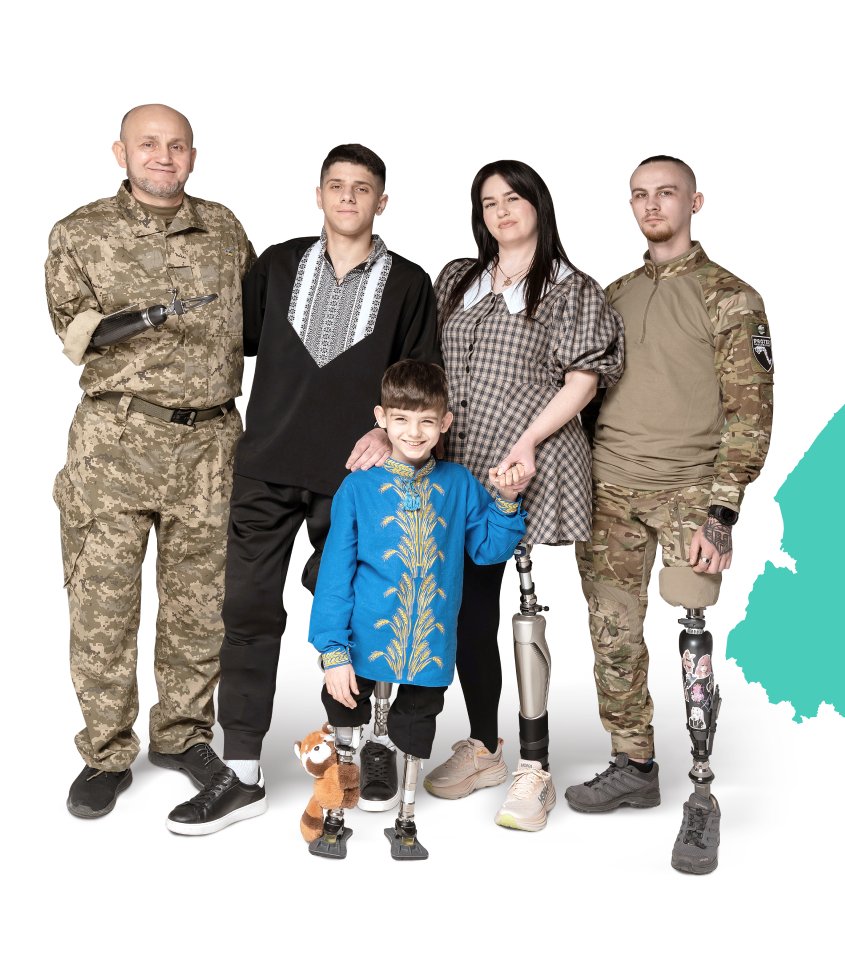
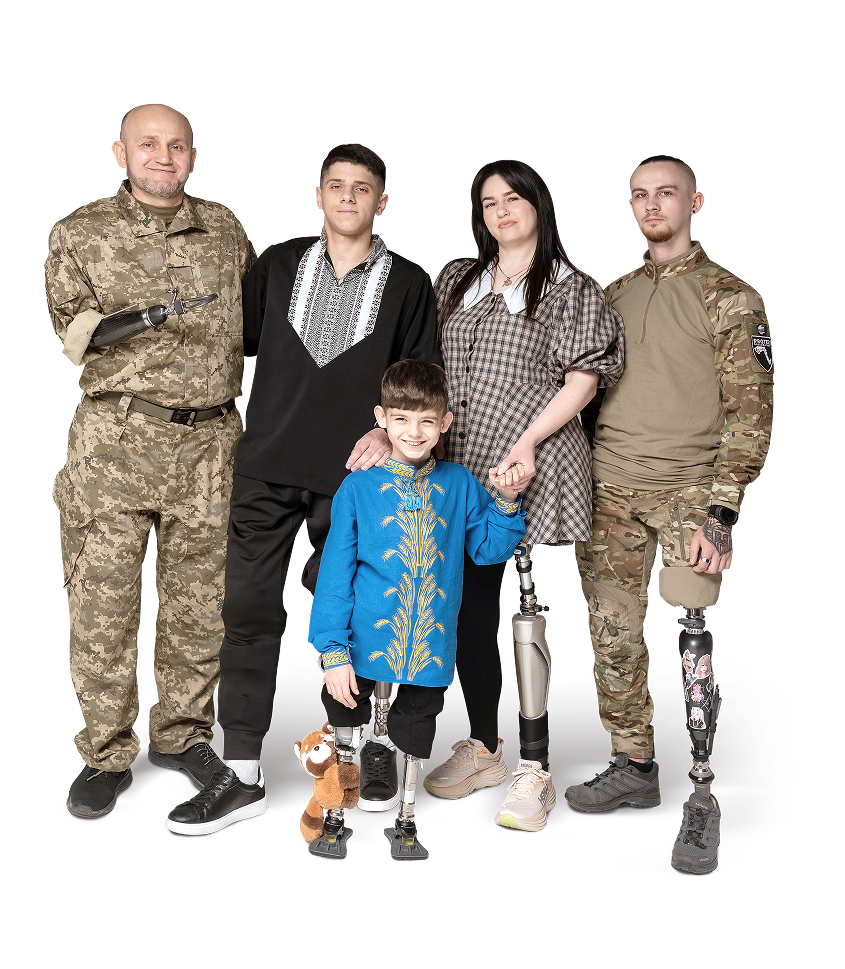
Refine glass backgrounds with optional edge fades and refresh InNeed photo

diff --git a/src/components/GlassBackground/style.module.scss b/src/components/GlassBackground/style.module.scss
@@ -1,0 +1,55 @@
+.surface {
+  position: relative;
+  isolation: isolate;
+}
+
+.background {
+  --glass-fade-height: 160px;
+  --glass-fade-top: 0px;
+  --glass-fade-bottom: 0px;
+
+  position: absolute;
+  inset: 0;
+  z-index: -1;
+  pointer-events: none;
+  background-color: rgba(255, 255, 255, 0.85);
+  background-image:
+    url('/textures/frosted-glass-grain.svg'),
+    linear-gradient(
+      135deg,
+      rgba(255, 255, 255, 0.35),
+      rgba(73, 204, 186, 0.16) 35%,
+      rgba(15, 158, 139, 0.1) 65%,
+      rgba(255, 255, 255, 0.25)
+    );
+  -webkit-backdrop-filter: blur(24px);
+  backdrop-filter: blur(24px);
+  -webkit-mask-image: linear-gradient(
+    to bottom,
+    transparent,
+    black var(--glass-fade-top),
+    black calc(100% - var(--glass-fade-bottom)),
+    transparent
+  );
+  mask-image: linear-gradient(
+    to bottom,
+    transparent,
+    black var(--glass-fade-top),
+    black calc(100% - var(--glass-fade-bottom)),
+    transparent
+  );
+}
+
+.fadeTop {
+  --glass-fade-top: var(--glass-fade-height);
+}
+
+.fadeBottom {
+  --glass-fade-bottom: var(--glass-fade-height);
+}
+
+@media (max-width: 800px) {
+  .background {
+    --glass-fade-height: 80px;
+  }
+}

diff --git a/src/sections/home/SampleProsthesesCosts/SampleProsthesesCosts.tsx b/src/sections/home/SampleProsthesesCosts/SampleProsthesesCosts.tsx
@@ -3,6 +3,8 @@
 import { useLocale, useTranslations } from 'next-intl'
 
 import Section from '@/components/Section'
+import GlassBackground from '@/components/GlassBackground'
+import glassStyle from '@/components/GlassBackground/style.module.scss'
 import SectionTitle from '@/components/SectionTitle'
 import AnimatedGlowBackground from '@/components/AnimatedGlowBackground'
 
@@ -102,8 +104,13 @@ const SampleProsthesesCosts = () => {
   }))
 
   return (
-    <Section id={ProtezIDs.SampleProsthesesCosts} className={style.section}>
-      <AnimatedGlowBackground />
+    <Section
+      id={ProtezIDs.SampleProsthesesCosts}
+      className={`${style.section} ${glassStyle.surface}`}
+    >
+      <GlassBackground fadeTop fadeBottom>
+        <AnimatedGlowBackground />
+      </GlassBackground>
       <div className={style.left}>
         <SectionTitle className={`${style.title} ${locale === 'uk' ? style.ukrainianTitle : ''}`}>
           {titleLines.map(line => (

diff --git a/src/sections/home/OurPatients/OurPatients.tsx b/src/sections/home/OurPatients/OurPatients.tsx
@@ -12,6 +12,8 @@ import { TextAppearanceWrapper } from '@/components/TextAppearanceWrapper'
 
 import { icons } from './icons'
 import Section from '@/components/Section'
+import GlassBackground from '@/components/GlassBackground'
+import glassStyle from '@/components/GlassBackground/style.module.scss'
 import SectionTitle from '@/components/SectionTitle'
 import { ProtezIDs } from '@/consts'
 import ProtezImage from '@/components/ProtezImage'
@@ -69,7 +71,8 @@ const OurPatients = () => {
   const patientsArray: string[] = [...ourPatientsSection.patients, ...ourPatientsSection.patients]
 
   return (
-    <Section id={ProtezIDs.OurPatients} className={style.section}>
+    <Section id={ProtezIDs.OurPatients} className={`${style.section} ${glassStyle.surface}`}>
+      <GlassBackground fadeTop fadeBottom />
       <TextAppearanceWrapper className={style.heading}>
         <SectionTitle className={style.title}>
           <span

diff --git a/src/sections/home/InNeed/InNeed.tsx b/src/sections/home/InNeed/InNeed.tsx
@@ -8,6 +8,8 @@ import { playfairDisplayItalic } from '../../../../app/fonts'
 import style from './style.module.scss'
 import { icons } from './icons'
 import Section from '@/components/Section'
+import GlassBackground from '@/components/GlassBackground'
+import glassStyle from '@/components/GlassBackground/style.module.scss'
 
 import { ProtezIDs } from '@/consts'
 
@@ -19,7 +21,8 @@ const InNeed = forwardRef(function (_, ref: ForwardedRef<HTMLDivElement>) {
   const t = useTranslations('home.inNeed')
 
   return (
-    <Section id={ProtezIDs.InNeed} className={style.section} ref={ref}>
+    <Section id={ProtezIDs.InNeed} className={`${style.section} ${glassStyle.surface}`} ref={ref}>
+      <GlassBackground fadeTop />
       {icons.ukrainanMap(style.map)}
       <div className={style.left}>
         <ProtezImage

diff --git a/src/sections/home/_root/style.module.scss b/src/sections/home/_root/style.module.scss
@@ -2,25 +2,6 @@
   // background-color: var(--dark-blue);
   --home-heading-color: var(--black);
   color: var(--black);
-
-  :global(#inNeed),
-  :global(#sampleProsthesesCosts),
-  :global(#ourPatients) {
-    background-color: rgba(245, 245, 245, 0.65);
-    background-image:
-      url('/textures/frosted-glass-grain.svg'),
-      linear-gradient(
-        135deg,
-        rgba(255, 255, 255, 0.7),
-        rgba(15, 158, 139, 0.07) 50%,
-        rgba(255, 255, 255, 0.4)
-      );
-    -webkit-backdrop-filter: blur(24px);
-    backdrop-filter: blur(24px);
-    box-shadow:
-      inset 0 1px 0 rgba(255, 255, 255, 0.9),
-      inset 0 -1px 0 rgba(19, 19, 19, 0.08);
-  }
 }
 
 :global(body):has(.main) {

diff --git a/src/components/GlassBackground/index.tsx b/src/components/GlassBackground/index.tsx
@@ -1,0 +1,24 @@
+import { ReactNode } from 'react'
+
+import style from './style.module.scss'
+
+interface GlassBackgroundProps {
+  fadeTop?: boolean
+  fadeBottom?: boolean
+  children?: ReactNode
+}
+
+const GlassBackground = ({
+  fadeTop = false,
+  fadeBottom = false,
+  children,
+}: GlassBackgroundProps) => (
+  <div
+    aria-hidden="true"
+    className={`${style.background} ${fadeTop ? style.fadeTop : ''} ${fadeBottom ? style.fadeBottom : ''}`}
+  >
+    {children}
+  </div>
+)
+
+export default GlassBackground

diff --git a/.agent-guidance/context-map.md b/.agent-guidance/context-map.md
@@ -22,3 +22,5 @@
 Білий фон body Home задають ті самі root styles. [SmokeWrapper](../src/sections/home/_root/SmokeWrapper) задає темний фон і білий текст усім блокам із димом, включно з MailingList; у світлих секціях Home диму немає. Прозорий варіант спільного Partners вмикається лише для Home; Footer зберігає власні кольори.
 
 [AnimatedGlowBackground](../src/components/AnimatedGlowBackground) — спільна анімація фону Hero фінансового звіту та Sample Prostheses Costs на Home.
+
+[GlassBackground](../src/components/GlassBackground) — скло для InNeed, SampleProsthesesCosts та OurPatients. Батьківська секція використовує клас `surface` із модуля стилів компонента; незалежні `fadeTop` / `fadeBottom` вмикають переходи до білого лише для фону. Світіння передавай усередину компонента, щоб воно згасало разом зі склом.
